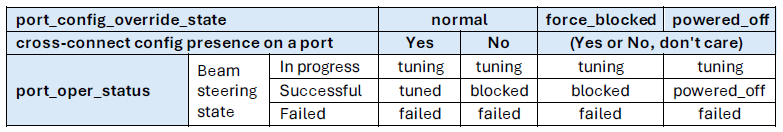
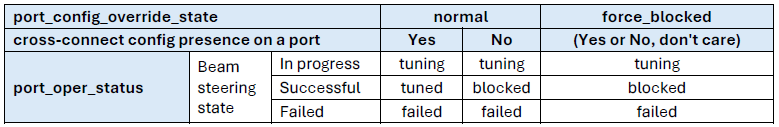
Update OCS SAI definitions and markdown document based on comments

diff --git a/experimental/saiexperimentalocs.h b/experimental/saiexperimentalocs.h
@@ -134,11 +134,6 @@ typedef sai_status_t (*sai_get_ocs_cross_connect_attribute_fn)(
 typedef enum _sai_ocs_port_override_state_t
 {
     /**
-     * @brief First element that the beam hits is powered off, for testing
-     */
-    SAI_OCS_PORT_OVERRIDE_STATE_POWERED_OFF,
-
-    /**
      * @brief Default, state to be determined by presence of cross-connect
      */
     SAI_OCS_PORT_OVERRIDE_STATE_NORMAL,
@@ -161,17 +156,17 @@ typedef enum _sai_ocs_port_status_t
     SAI_OCS_PORT_STATUS_BLOCKED,
 
     /**
-     * @brief Insertion loss is >0.5dB of target
+     * @brief Status when device is performing the switching.
      */
     SAI_OCS_PORT_STATUS_TUNING,
 
     /**
-     * @brief Insertion loss is within 0.5dB of target
+     * @brief Status when the device has finished switching.
      */
     SAI_OCS_PORT_STATUS_TUNED,
 
     /**
-     * @brief If there is a hardware failure
+     * @brief This is not a configuration or permanent failure flag. It is meant as a status in the port tuning state machine, for example, when software fails to apply a beam steering state to the OCS module due to some communication issue. It is up to the vendor to determine what constitutes a failure in port tuning. Note that the "failed" status is not an all-inclusive status but only used at times that the software knows of a certain failure in tuning.
      */
     SAI_OCS_PORT_STATUS_FAILED
 } sai_ocs_port_status_t;

diff --git a/doc/OCS/SAI-Proposal-OCS.md b/doc/OCS/SAI-Proposal-OCS.md
@@ -54,20 +54,20 @@ OCS_PORT|8B        normal
 ## 3.3 OCS Port Operational Status
 The OCS port operational status relies on the override state and the presence of an OCS cross-connect configuration on the port.       
 
-![OCS Port Operational Status](images/port_status.png)
+![OCS Port Operational Status](images/port_status.png)   
+The OCS port physical mapping information is about the internal port mapping to faceplate ports.    
 # 4. OCS Cross-Connects
 OCS cross-connects are dynamically created and removed via SAI APIs.    
 ## 4.1. Object Relationships
 * The SAI object IDs of OCS ports serve as the SAI attributes for both the ingress and egress ports in OCS cross-connect SAI object.
 * OCS ports are referenced to OCS cross-connect by their SAI object IDs in cross-connect attributes.
 ## 4.2. Cross-Connect Configuration 
-* To have fast switching performance, SAI bulk create/remove APIs are used for management of OCS cross-connect configurations.
-* OCS cross-connect can not be provisioned between two A side ports or two B side ports.
-* One OCS port can only involved in one OCS cross-connect; when switching existing OCS cross-connect, e.g. switch from 1A-1B to 1A-2B, the upstream application need to use SAI API to remove 1A-1B and then create 1A-2B. 
+* OCS cross-connect can be provisioned between two OCS ports such as 1A-1B, 1A-2A, etc.    
+* SAI bulk create/remove APIs are used for management of OCS cross-connect configurations. The backend logic under SAI can be implemented with one operation to OCS device, similar as overwrite behavior.
 # 5. OCS Cross-Connects Factory Data
-OCS cross-connect factory data are read-only information about insertion loss measurements of all possible cross-connects. 
+OCS cross-connect factory data are read-only information about factory beginning-of-life measurements that serve as a baseline reference that users can compare with. 
 * Factory data are measured during the manufacturing calibration phase.
-* The measurement is for every possible optical path (cross-connect) with an optical spectrum (central frequency) in specific environment (temperature).
+* The measurement is for optical paths (cross-connects) with an optical spectrum (central frequency) in specific environment (temperature).
 
 # 6. OCS SAI Object and Attributes
 | SAI Object | SAI Attributes | SAI Data Type |